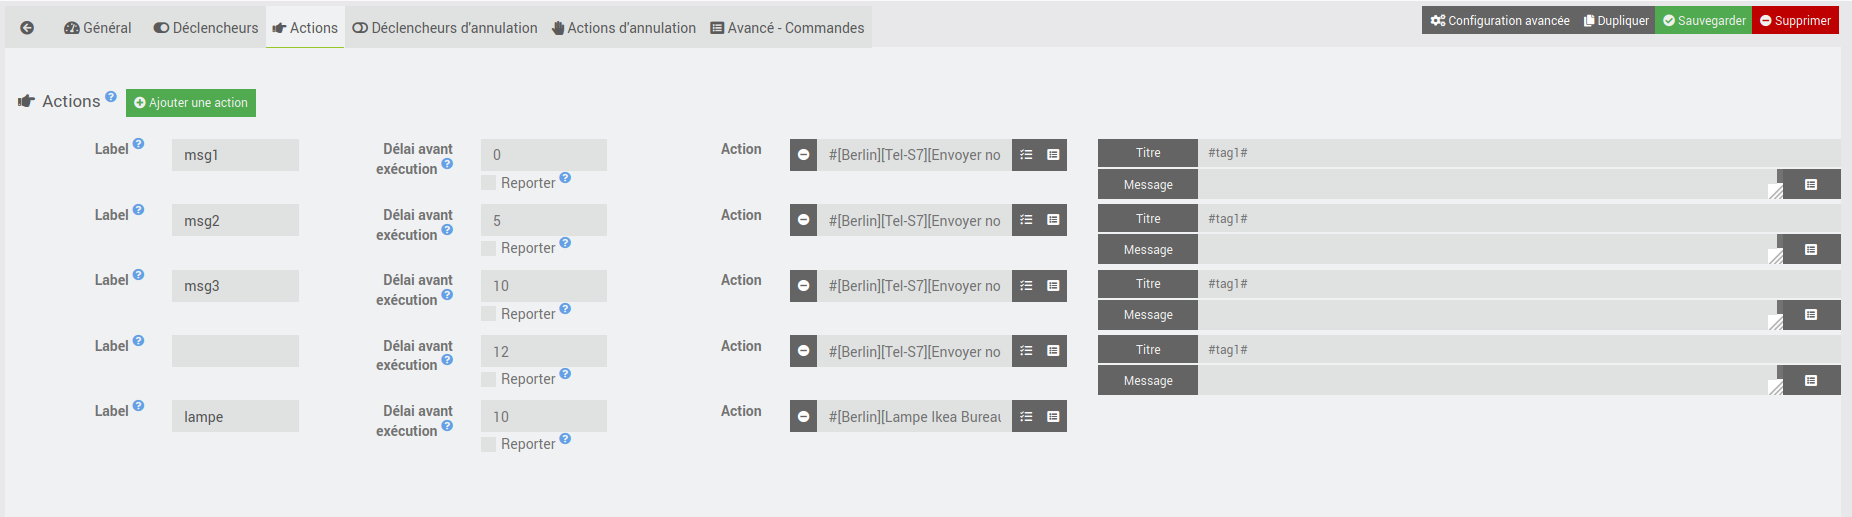
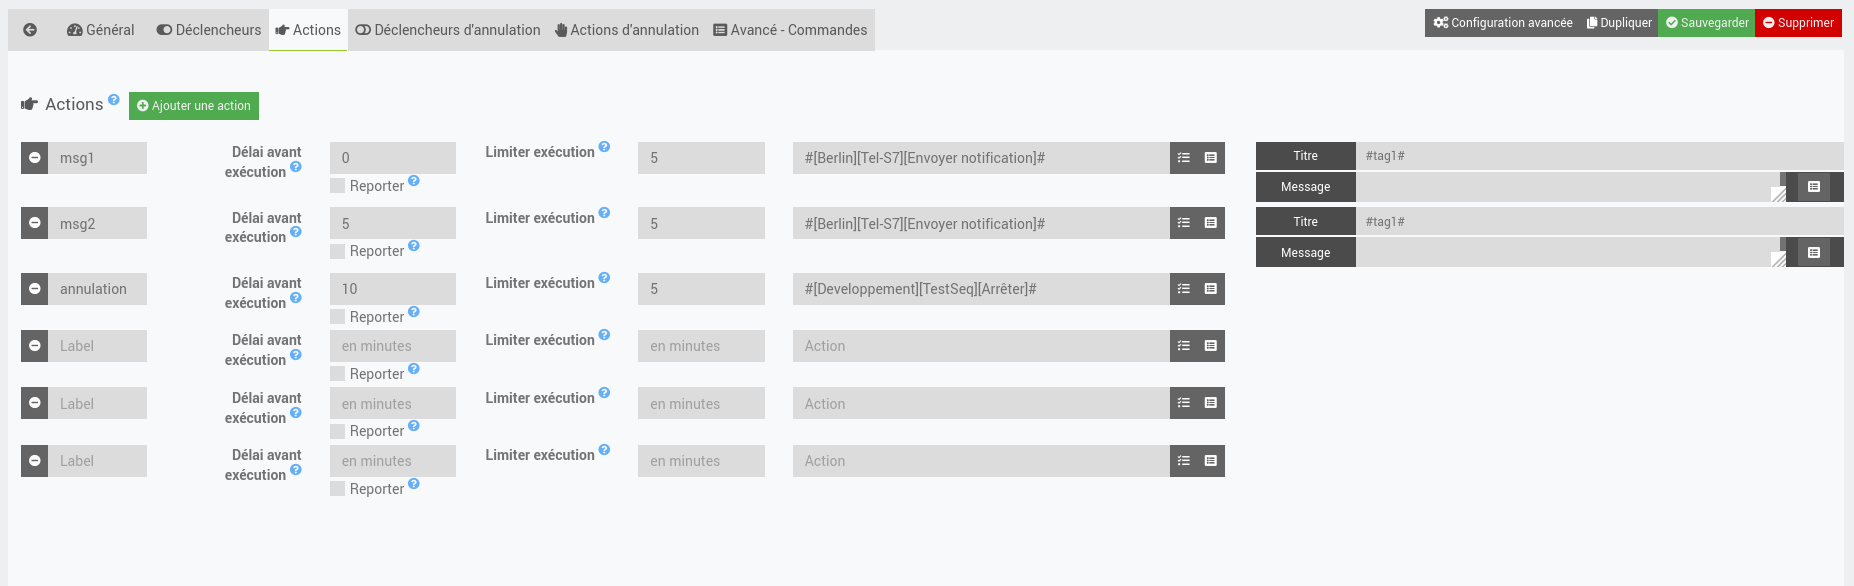
ajout limit exec actions et actions annalations

diff --git a/desktop/js/sequencing.js b/desktop/js/sequencing.js
@@ -168,9 +168,14 @@ function addAction(_action, _type) {
     div += '<div class="form-group ">';
 
       if(_type == 'action'){ // pour les actions, on ajoute un label et un timer
-        div += '<label class="col-sm-1 control-label">{{Label}} <sup><i class="fas fa-question-circle tooltips" title="{{Renseigner un label si vous voulez lier des actions de désactivations à cette action}}"></i></sup></label>';
+      //  div += '<label class="col-sm-1 control-label">{{Label}} <sup><i class="fas fa-question-circle tooltips" title="{{Renseigner un label si vous voulez lier des actions de désactivations à cette action}}"></i></sup></label>';
         div += '<div class="col-sm-1">';
-          div += '<input type="" class="expressionAttr form-control cmdInfo" data-l1key="action_label"/>'; // type = "text" fait un bug d'affichage sur le theme noir...
+          div += '<div class="input-group">';
+            div += '<span class="input-group-btn">';
+              div += '<a class="btn btn-default bt_removeAction roundedLeft" data-type="' + _type + '"><i class="fas fa-minus-circle"></i></a>';
+            div += '</span>';
+            div += '<input type="" class="expressionAttr form-control cmdInfo" data-l1key="action_label" placeholder="{{Label}}"/>'; // type = "text" fait un bug d'affichage sur le theme noir...
+          div += '</div>';
         div += '</div>';
 
         div += '<label class="col-sm-1 control-label">{{Délai avant exécution}} <sup><i class="fas fa-question-circle tooltips" title="{{Le délai avant exécution doit être donné (en minutes) par rapport au déclenchement initial et non par rapport à l\'action précédente. Ne pas remplir ou 0 pour déclenchement immédiat.}}"></i></sup></label>';
@@ -180,19 +185,30 @@ function addAction(_action, _type) {
         div += '</div>';
 
       } else { // pour les action_cancel on ajoute le label de l'action à lier
-        div += '<label class="col-sm-2 control-label">{{Label action de référence}} <sup><i class="fas fa-question-circle tooltips" title="{{Renseigner le label de l\'action de référence. Cette action ne sera exécutée que si l\'action de référence a été précédemment exécutée. }}"></i></sup></label>';
-        div += '<div class="col-sm-1">';
-          div += '<input type="" class="expressionAttr form-control cmdInfo" data-l1key="action_label_liee"/>';
-        div += '</div>';
-      }
 
-      div += '<label class="col-sm-1 control-label">Action</label>';
-      div += '<div class="col-sm-2">';
+       //   div += '<label class="col-sm-2 control-label">{{Label action de référence}} <sup><i class="fas fa-question-circle tooltips" title="{{Renseigner le label de l\'action de référence. Cette action ne sera exécutée que si l\'action de référence a été précédemment exécutée. }}"></i></sup></label>';
+          div += '<div class="col-sm-2">';
         div += '<div class="input-group">';
           div += '<span class="input-group-btn">';
             div += '<a class="btn btn-default bt_removeAction roundedLeft" data-type="' + _type + '"><i class="fas fa-minus-circle"></i></a>';
           div += '</span>';
-          div += '<input class="expressionAttr form-control cmdAction" data-l1key="cmd" data-type="' + _type + '" />';
+            div += '<input type="" class="expressionAttr form-control cmdInfo" data-l1key="action_label_liee" placeholder="{{Label action de référence}}"/>';
+          div += '</div>';
+        div += '</div>';
+      }
+
+      div += '<label class="col-sm-1 control-label">{{Limiter exécution}} <sup><i class="fas fa-question-circle tooltips" title="{{Si vous souhaitez limiter le nombre d\'exécution sur une période donnée (en minutes). Ne pas remplir ou 0 pour exécuter systèmatiquement.}}"></i></sup></label>';
+      div += '<div class="col-sm-1">';
+          div += '<input type="number" class="expressionAttr form-control" data-l1key="action_time_limit" placeholder="{{en minutes}}"/>';
+      div += '</div>';
+
+    //  div += '<label class="col-sm-1 control-label">Action</label>';
+      div += '<div class="col-sm-3">';
+        div += '<div class="input-group">';
+      //    div += '<span class="input-group-btn">';
+      //      div += '<a class="btn btn-default bt_removeAction roundedLeft" data-type="' + _type + '"><i class="fas fa-minus-circle"></i></a>';
+      //    div += '</span>';
+          div += '<input class="expressionAttr form-control cmdAction" data-l1key="cmd" data-type="' + _type + '" placeholder="{{Action}}"/>';
           div += '<span class="input-group-btn">';
             div += '<a class="btn btn-default listAction" data-type="' + _type + '" title="{{Sélectionner un mot-clé}}"><i class="fa fa-tasks"></i></a>';
             div += '<a class="btn btn-default listCmdAction roundedRight" data-type="' + _type + '" title="{{Sélectionner une commande}}"><i class="fas fa-list-alt"></i></a>';
@@ -200,7 +216,7 @@ function addAction(_action, _type) {
         div += '</div>';
       div += '</div>';
 
-      div += '<div class="col-sm-5 actionOptions">'; // on laisse la place pour afficher les champs "message" ou autre selon les options associées à l'action choisie par l'utilisateur si besoin
+      div += '<div class="col-sm-4 actionOptions">'; // on laisse la place pour afficher les champs "message" ou autre selon les options associées à l'action choisie par l'utilisateur si besoin
         div += jeedom.cmd.displayActionOption(init(_action.cmd, ''), _action.options);
       div += '</div>';
 

diff --git a/core/class/sequencing.class.php b/core/class/sequencing.class.php
@@ -69,7 +69,7 @@ class sequencing extends eqLogic {
         log::add('sequencing', 'debug', $sequencing->getHumanName() . ' - Fct startProgrammed appelée par le CRON');
 
         $sequencing->setCache('trigger_name', 'programmé');
-        $eqLogic->setCache('trigger_full_name', 'programmé');
+        $sequencing->setCache('trigger_full_name', 'programmé');
         $sequencing->setCache('trigger_value', '');
         $sequencing->setCache('trigger_datetime', date('Y-m-d H:i:s'));
         $sequencing->setCache('trigger_time', date('H:i:s'));
@@ -223,7 +223,21 @@ class sequencing extends eqLogic {
 
     public function execAction($action) { // exécution d'une seule action
 
-      log::add('sequencing', 'debug', $this->getHumanName() . '################ Exécution de l\' action ' . $action['action_label'] . ' ############');
+      log::add('sequencing', 'debug', $this->getHumanName() . '################ Exécution de l\'action ' . $action['action_label'] . ' ############');
+
+      if(isset($action['action_time_limit'])){ // si on veut limiter la fréquence d'exécution
+
+        $now = time();
+        $tempsDepuisAction = $now - $this->getCache('execAction_'.$action['cmd'].'_'.$action['action_label'].'_'.$action['action_label_liee'].'_lastExec');
+
+        log::add('sequencing', 'debug', 'tempsDepuisAction (s) : ' . $tempsDepuisAction . ' - période voulue sans répétition (s) : ' . $action['action_time_limit']*60);
+
+        if ($tempsDepuisAction < $action['action_time_limit']*60){
+
+          log::add('sequencing', 'debug', 'Action déjà exécutée dans la période => on ne l\'exécute pas');
+          return;
+        }
+      }
 
       try {
         $options = array(); // va permettre d'appeler les options de configuration des actions, par exemple un scenario ou les textes pour un message
@@ -273,6 +287,12 @@ class sequencing extends eqLogic {
         if(isset($action['action_label'])){ // si on avait un label (donc c'est une action), on memorise qu'on l'a lancé
           $this->setCache('execAction_'.$action['action_label'], 1);
       //    log::add('sequencing', 'debug', 'setCache TRUE pour label : ' . $action['action_label']);
+        }
+
+        if(isset($action['action_time_limit'])){ // si on veut limiter la fréquence d'exécution
+          // garde en cache le timestamp de la derniere exéc
+          $this->setCache('execAction_'.$action['cmd'].'_'.$action['action_label'].'_'.$action['action_label_liee'].'_lastExec', $now); // on met un max de truc pour eviter les interferences entre actions, vu qu'on demande pas de nom unique et que la cmd peut etre utilisée plusieurs fois...
+          log::add('sequencing', 'debug', 'setCache : execAction_'.$action['cmd'].'_'.$action['action_label'].'_'.$action['action_label_liee'].'_lastExec - timestamp : ' . $now);
         }
 
       } catch (Exception $e) {

diff --git a/desktop/php/sequencing.php b/desktop/php/sequencing.php
@@ -218,7 +218,7 @@ $eqLogics = eqLogic::byType($plugin->getId());
 
       <form class="form-horizontal">
         <fieldset>
-          <legend><i class="fas fa-hand-point-right"></i> {{Actions}} <sup><i class="fas fa-question-circle tooltips" title="{{Actions à déclencher à l'activation d'un déclencheur. Tags utilisable : voir doc}}"></i></sup>
+          <legend><i class="fas fa-hand-point-right"></i> {{Actions}} <sup><i class="fas fa-question-circle tooltips" title="{{Actions à réaliser. Renseigner un label si vous voulez lier des actions de désactivations à une action. Tags utilisable : voir doc}}"></i></sup>
             <a class="btn btn-success btn-sm addAction" data-type="action" style="margin:5px;"><i class="fas fa-plus-circle"></i> {{Ajouter une action}}</a>
           </legend>
           <div id="div_action"></div>

diff --git a/docs/fr_FR/index.md b/docs/fr_FR/index.md
@@ -152,6 +152,7 @@ Cliquer sur "ajouter une action" pour définir une ou plusieurs actions puis les
    * délai supérieure à 0 : cette action sera enregistrée dans le moteur de tâches Jeedom (cron) pour une exécution différée selon le délai voulu.
    * le délai doit être saisi par rapport au déclenchement. Si vous souhaitez 3 actions, l'une immédiate puis 10 min après puis 10 min après, il faudra saisir 0, 10 et 20.
    * **Reporter** : permet de définir le comportement de l'action différée dans le cas d'un déclenchement multiple : laisser l'action à sa programmation initiale ou la reporter pour correspondre au dernier déclenchement.
+* **Limiter exécution** : permet de limiter la fréquence de l'exécution de cette action. Laisser vide ou 0 pour une exécution systématique. Si vous avez plusieurs actions dont la commande est la même (cas des messages par exemples) et dont vous souhaitez limiter l'exécution, il est souhaitable de saisir un label pour cette action pour éviter les interférences dans le calcul de la dernière date d'exécution.
 * **Action** : la commande Jeedom correspondant à l'action voulue. Pour les actions de type "message", vous pouvez utiliser les tags définis ci-dessus. Les actions peuvent être des "mots-clés" Jeedom, pour lancer un scénario ou définir la valeur d'une variable par exemple.
 
 Remarques :
@@ -216,6 +217,7 @@ Cliquer sur "ajouter une action" pour définir une ou plusieurs actions d'annula
    * Lorsque le label est renseigné et correspond à une action d'alerte, il faut que l'action d'alerte de référence ait été précédemment exécutée pour que la présente action s'exécute.
    * Attention, si vous renseignez un label qui n'existe pas (et donc ne sera jamais exécuté), l'action liée ne s'exécutera jamais. Vous ne pouvez donc pas utiliser ce champ pour personnaliser un tag liée à cette action uniquement.
    * Laissez le champs vide pour exécuter l'action d'annulation sans condition (à chaque déclenchement d'annulation)
+* **Limiter exécution** : permet de limiter la fréquence de l'exécution de cette action. Laisser vide ou 0 pour une exécution systématique. Si vous avez plusieurs actions dont la commande est la même (cas des messages par exemples) et dont vous souhaitez limiter l'exécution, il est souhaitable de saisir un "label action de référence" (valide, sinon l'action ne sera jamais exécutée) pour cette action pour éviter les interférences dans le calcul de la dernière date d'exécution.
 * **Action** : la commande jeedom correspondant à l'action voulue. Pour les actions de type "message", vous pouvez utiliser les tags définis ci-dessus. Les actions peuvent être des "mots-clés" Jeedom, pour lancer un scénario ou définir la valeur d'une variable par exemple.
 
 Onglet **Avancé - Commandes Jeedom**

diff --git a/docs/fr_FR/todolist.md b/docs/fr_FR/todolist.md
@@ -12,7 +12,7 @@
         ◦ Ajout des conditions d’évaluation Regex (matches)
         ◦ Conditionner selon plage horaire (datetime picker de début et fin de période pour commencer, en verra après si début/fin peuvent être des commandes (heure de levé du soleil, …) -> sera utilisé en condition uniquement, en complément d’autres déclencheurs. Ne sera pas un déclencheur en soit.
         ◦ Séquencement des conditions : il faut condition 1 puis condition 2 puis condition 3 pour déclencher
-        ◦ pouvoir appliquer un délai d’exécution sur une action annulation
+        ◦ pouvoir appliquer un délai d’exécution sur une action annulation => NON
     • Priorité 3 (en gros : je le ferais pas sauf si plébiscité sur le forum…) :
         ◦ Conditions personnalisée entre les déclencheurs (« cond1 ET (cond1 OU cond2) OU (cond3 XOR cond1) »)
         ◦ Déclenchement sur condition valide plus de xx minutes
